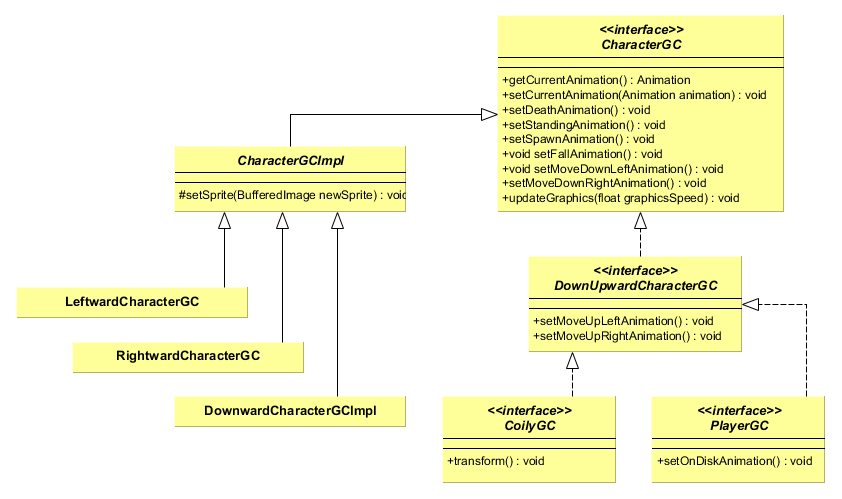
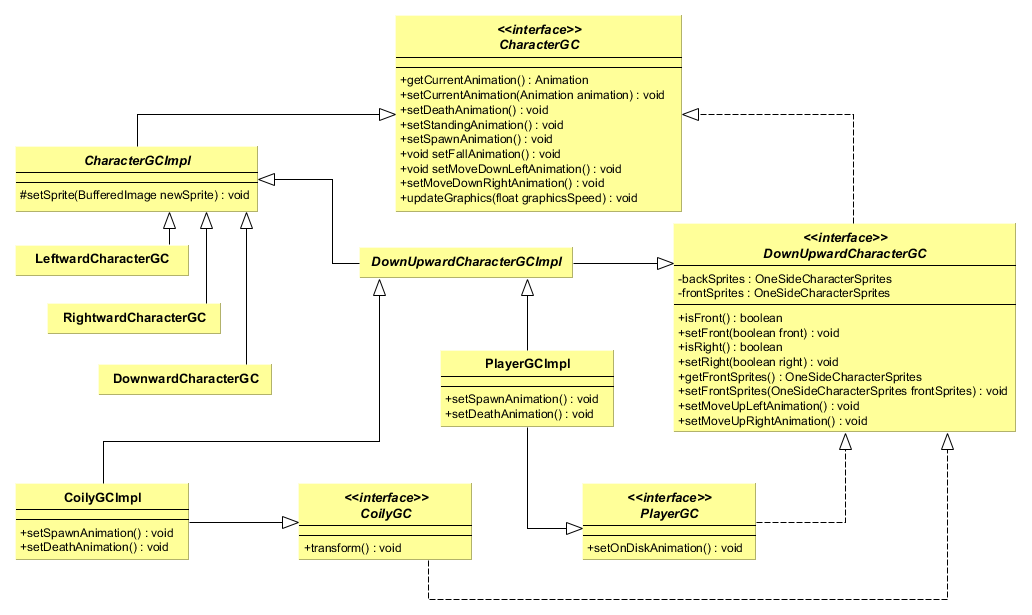
Create test folder. Correct some old jUnit tests. Write report

diff --git a/report/Relazione.tex b/report/Relazione.tex
@@ -94,28 +94,37 @@ Il dialogo fra Controller e View è più stabile in quanto è la View stessa ad 
 \item\subsubsection{Alessandro Lombardi - Logica dei personaggi}
 \end{flushright}
 
-I personaggi svolgono diverse azioni e fanno diverse scelte durante il loro ciclo di vita. Per evitare una gestione troppo cablata e poco mantenibile delle specifiche situazioni è stato scelto di utilizzare lo \textbf{State Pattern}. Il pattern State evita l'utilizzo di monolitici  blocchi condizionali all'interno delle classi dei singoli personaggi per la scelta e l’esecuzione di una azione piuttosto che un’altra, frammentando lo svolgimento delle singole azioni a classi specifiche che sono riutilizzabili e facilmente intercambiabili tra loro. Inoltre, permette di gestire meglio l'esecuzione delle animazioni e la simulazione delle attese che un personagio fa fra un'azione e l'altra.
+I personaggi svolgono diverse azioni e fanno diverse scelte durante il loro ciclo di vita. Per evitare una gestione troppo cablata e poco mantenibile delle specifiche situazioni è stato scelto di utilizzare lo \textbf{State Pattern}. Il pattern State evita l'utilizzo di monolitici  blocchi condizionali all'interno delle classi dei singoli personaggi per la scelta e l’esecuzione di una azione piuttosto che un’altra, frammentando lo svolgimento delle singole azioni a classi specifiche che sono riutilizzabili e facilmente intercambiabili tra loro. Inoltre, permette di gestire meglio l'esecuzione delle animazioni e la simulazione delle attese che un personaggio fa fra un'azione e l'altra. Nella pratica ogni personaggio viene aggiornato col passare del tempo tramite il metodo update(float dt), ma questo delega completamente i propri compiti allo stato attuale.
 
-Nel caso specifico  è stato scelto di associare a ciascun personaggio uno stato di riposo, reperibile tramite il metodo getStandingState() presente della interfaccia \emph{Character}, caratteristico per ciascuno e paragonabile a uno stato di attesa di una macchina a stati finiti. La classe astratta \emph{CharacterStateImpl} è una semplice implementazione dell'interfaccia \emph{CharacterState} e usata direttamente dagli stati molto semplici o di transazione (\emph{LandState} oppure \emph{QbertStandingState}). Le classi astratte \emph{WaitAnimationState} e \emph{WaitTimerState} invece, usano il metodo update() come \textbf{Template Method} per permettere alle classi concrete la personalizzazione nel metodo conclude() delle azioni da svolgere, rispettivamente alla fine di una animazione o allo scadere di un timer.
+Nel caso specifico  è stato scelto di associare a ciascun personaggio uno stato di riposo, reperibile tramite il metodo getStandingState() presente della interfaccia \emph{Character}, caratteristico per ciascuno e paragonabile a uno stato di attesa di una macchina a stati finiti responsabile delle maggiori scelte logiche del personaggio, come la strategia di movimento. La classe astratta \emph{CharacterStateImpl} è una semplice implementazione dell'interfaccia \emph{CharacterState} e viene ereditata direttamente dagli stati molto semplici o di transizione, come rispettivamente \emph{QbertStandingState} e \emph{LandState}. Le classi astratte \emph{WaitAnimationState} e \emph{WaitTimerState} invece, usano il metodo update() come \textbf{Template Method} per permettere alle classi concrete la personalizzazione nel metodo conclude() delle azioni da svolgere, rispettivamente alla fine di una animazione o allo scadere di un timer. \emph{MoveState} contiene gli stati usati da tutti i personaggi per eseguire i basilari movimenti nelle due o quattro direzioni a seconda del tipo di \emph{Character} che viene passato. 
 
 \begin{figure}[H]
 \centering{}
 \includegraphics[width=\linewidth]{img/CharacterStates}
-\caption{Alcune delle principali classi della gerarchia di Character State}
-\label{img:GerarchiaCGC}
+\caption{Alcune delle principali classi della gerarchia dei Character State}
+\label{img:CharacterStates}
 \end{figure}
 
+E' importante sottolineare che gli stati vengono inizializzati passando il \emph{Character} associato, permettendo allo stato di applicarvi le modifiche necessarie, quindi i costruttori degli stati sono modellati per accettare anche le classi più specifiche della gerarchia dei personaggi, limitando e proteggendo gli stati che devono essere usati solo per certi personaggi. Ad esempio, \emph{QbertOnDiskState} accetta solo \emph{Player}, mentre \emph{FallState} può accettare un \emph{Character} oppure un \emph{DownUpwardCharacter} personalizzando le azioni da compiere di caso in caso.
+
+
+\begin{figure}[H]
+\centering{}
+\includegraphics[width=\linewidth]{img/GerarchiaCharacters}
+\caption{La gerarchia dei Character}
+\label{img:GerarchiaCharacters}
+\end{figure}
 
 \begin{flushright}
 \item\subsubsection{Alessandro Lombardi - Animazione dei personaggi}
 \end{flushright}
 
-Durante la fase di analisi è stato scelto di dividere quella che era la posizione "logica" del personaggio, ovvero la posizione nella griglia immaginaria disegnata dalle facce dei cubi del terreno di gioco, da quella "fisica", ovvero la coordinata del pixel nella finestra di gioco, dove si posiziona l'angolo in alto a sinistra dell'immagine di forma rettangolare del personaggio. Questo ha comportato anche una divisione degli aspetti grafici da quelli logici e la scelta di considerare i movimenti come il salto, la caduta etc.. vere e proprie animazioni. La gestione dei dati necessari alla renderizzazione grafica dei personaggi, quali la posizione, lo sprite e la dimensione di questo, sono gestiti dalle classi che implementano \emph{CharacterGC}. La gerarchia di classi concrete ed astratte che segue è modellata sulle animazioni svolte dai vari personaggi con lo scopo di riutilizzare al massimo le funzionalità in comune.
+Durante la fase di analisi è stato scelto di dividere quella che era la posizione "logica" del personaggio, ovvero la posizione nella griglia immaginaria disegnata dalle facce dei cubi del terreno di gioco, da quella "fisica", ovvero la coordinata del pixel nella finestra di gioco, dove si posiziona l'angolo in alto a sinistra dell'immagine di forma rettangolare del personaggio. Questo ha comportato anche una divisione degli aspetti grafici da quelli logici e la scelta di considerare i movimenti come il salto, la caduta etc.. vere e proprie animazioni. La gestione dei dati necessari alla renderizzazione grafica dei personaggi, quali la posizione, lo sprite e la dimensione di questo, sono gestiti dalle classi che implementano \emph{CharacterGC}. La gerarchia dei Character Graphic Component si basa sul riutilizzo del codice in comune e sulle animazioni supportate, \emph{CharacterGC} fornisce i metodi per la gestione delle animazioni e presenta quelle base. Le interfacce e le classi per la gestione della grafica di Coily e Qbert supportano animazioni per muoversi anche verso l'alto oltre che gestire gli sprite per il fronte e il dietro dei personaggi. Da notare come Coily sfrutti il metodo setFrontSprites(OneSideCharacterSprites frontSprites) per trasformarsi dalla palla viola che è inizialmente alla sua forma finale.
 
 \begin{figure}[H]
 \centering{}
 \includegraphics[width=\linewidth]{img/GerarchiaCGC}
-\caption{Le principali classi della gerarchia CharcaterGC}
+\caption{La gerarchia CharcaterGC}
 \label{img:GerarchiaCGC}
 \end{figure}
 
@@ -124,7 +133,7 @@ Le animazioni dei personaggi sono state sviluppate sfruttando il pattern \textbf
 \begin{figure}[H]
 \centering{}
 \includegraphics[width=\linewidth]{img/AnimazioniPersonaggi}
-\caption{Alcune animazioni dei personaggi}
+\caption{Alcune animazioni dei characters}
 \label{img:AnimazioniPersonaggi}
 \end{figure}
 

diff --git a/src/test/TestCharacterGraphicComponent.java b/src/test/TestCharacterGraphicComponent.java
@@ -1,4 +1,4 @@
-package qbert.model.components.graphics;
+package test;
 
 import org.junit.Test;
 import static org.junit.Assert.assertTrue;
@@ -6,9 +6,12 @@ import static org.junit.Assert.assertEquals;
 
 import qbert.controller.LoadResources;
 import qbert.controller.Sprites;
+import qbert.model.components.graphics.CharacterGC;
+import qbert.model.components.graphics.CoilyGCImpl;
+import qbert.model.components.graphics.DownUpwardCharacterGC;
+import qbert.model.components.graphics.DownwardCharacterGC;
 import qbert.model.utilities.Dimensions;
 import qbert.model.utilities.Position2D;
-import qbert.view.characters.DisplaceAnimation;
 import qbert.view.characters.ComposedAnimation;
 import qbert.view.characters.StraightMovementAnimation;
 
@@ -20,8 +23,6 @@ import java.util.Random;
 public class TestCharacterGraphicComponent {
 
     private static final float SPEED = 7;
-
-    private static final int SPRITEHEIGHT = 5;
 
     private final Random rnd;
     private static final int TEST = 20;
@@ -94,17 +95,18 @@ public class TestCharacterGraphicComponent {
     }
 
     /**
-     * A test method for {@link DownwardCharacterGCImpl}.
+     * A test method for {@link DownwardCharacterGC}.
      */
     @Test
     public void testDownwardCGC() {
-        final CharacterGC cgc = new DownwardCharacterGCImpl(Sprites.getInstance().getGreenBallSprites(), new Position2D(spawningPointLeft));
+        final CharacterGC cgc = new DownwardCharacterGC(Sprites.getInstance().getGreenBallSprites(), new Position2D(spawningPointLeft));
         assertEquals(cgc.getPosition(), this.spawningPointLeft);
+        final Position2D landPos = new Position2D(cgc.getSpawnPosition().getX(), (Dimensions.getWindowHeight() - Dimensions.getBackgroundHeight()) / 2 + Dimensions.getCubeHeight() - cgc.getSpriteHeight());
         cgc.setSpawnAnimation();
+        assertTrue(cgc.getSprite().equals(Sprites.getInstance().getGreenBallSprites().getMoveSprite()));
         assertTrue(cgc.getCurrentAnimation() instanceof StraightMovementAnimation);
         this.finishAnimation(cgc);
-        assertEquals(cgc.getPosition(), new Position2D(this.spawningPointLeft.getX(), 
-                (Dimensions.getWindowHeight() - Dimensions.getBackgroundHeight()) / 2 + Dimensions.getCubeHeight() - TestCharacterGraphicComponent.SPRITEHEIGHT));
+        assertEquals(cgc.getPosition(), landPos);
 
         for (int i = 0; i < TestCharacterGraphicComponent.TEST; i++) {
             if (this.rnd.nextFloat() >= 0.5) {
@@ -122,13 +124,12 @@ public class TestCharacterGraphicComponent {
     public void testDownwardUpwardGC() {
         final Sprites s = Sprites.getInstance();
         final DownUpwardCharacterGC cgc = new CoilyGCImpl(s.getPurpleBallSprites(), s.getCoilyFrontSprites(), s.getCoilyBackSprites(), new Position2D(this.spawningPointRight));
-        final Position2D spawnPos = new Position2D(rnd.nextInt(10), rnd.nextInt(10));
+        final Position2D landPos = new Position2D(cgc.getSpawnPosition().getX(), (Dimensions.getWindowHeight() - Dimensions.getBackgroundHeight()) / 2 + Dimensions.getCubeHeight() - cgc.getSpriteHeight());
         assertEquals(cgc.getPosition(), this.spawningPointRight);
-        cgc.setSpawnPosition(spawnPos);
         cgc.setSpawnAnimation();
-        assertTrue(cgc.getCurrentAnimation() instanceof DisplaceAnimation);
+        assertTrue(cgc.getCurrentAnimation() instanceof StraightMovementAnimation);
         this.finishAnimation(cgc);
-        assertEquals(cgc.getPosition(), spawnPos);
+        assertEquals(cgc.getPosition(), landPos);
 
         for (int i = 0; i < TestCharacterGraphicComponent.TEST; i++) {
             switch (this.rnd.nextInt(4)) {

diff --git a/src/qbert/model/spawner/EnemyFactoryImpl.java b/src/qbert/model/spawner/EnemyFactoryImpl.java
@@ -22,7 +22,7 @@ import qbert.model.utilities.Position2D;
 import qbert.model.components.graphics.CharacterGC;
 import qbert.model.components.graphics.CoilyGC;
 import qbert.model.components.graphics.CoilyGCImpl;
-import qbert.model.components.graphics.DownwardCharacterGCImpl;
+import qbert.model.components.graphics.DownwardCharacterGC;
 import qbert.model.components.graphics.LeftwardCharacterGC;
 import qbert.model.components.graphics.PlayerGC;
 import qbert.model.components.graphics.PlayerGCImpl;
@@ -94,7 +94,7 @@ public class EnemyFactoryImpl implements EnemyFactory {
         final OneSideCharacterSprites sprites = Sprites.getInstance().getRedBallSprites();
         final Position2D randomPos = this.getRandomPos(sprites.getMoveSprite().getHeight());
         final Position2D logicalPos = this.getLogicalPos(randomPos);
-        final CharacterGC graphics = new DownwardCharacterGCImpl(sprites, randomPos);
+        final CharacterGC graphics = new DownwardCharacterGC(sprites, randomPos);
 
         return new RedBall(logicalPos, speed, graphics, standingTime);
     }
@@ -104,7 +104,7 @@ public class EnemyFactoryImpl implements EnemyFactory {
         final OneSideCharacterSprites sprites = Sprites.getInstance().getGreenBallSprites();
         final Position2D randomPos = this.getRandomPos(sprites.getMoveSprite().getHeight());
         final Position2D logicalPos = this.getLogicalPos(randomPos);
-        final CharacterGC graphics = new DownwardCharacterGCImpl(Sprites.getInstance().getGreenBallSprites(), randomPos);
+        final CharacterGC graphics = new DownwardCharacterGC(Sprites.getInstance().getGreenBallSprites(), randomPos);
 
         return new GreenBall(logicalPos, speed, graphics, standingTime);
     }
@@ -118,8 +118,8 @@ public class EnemyFactoryImpl implements EnemyFactory {
         final Position2D logicalPos = this.getLogicalPos(randomPos);
 
         final CharacterGC graphics = randomPos == this.spawningLogPointLeft
-                ? new DownwardCharacterGCImpl(slickS, randomPos)
-                : new DownwardCharacterGCImpl(samS, randomPos);
+                ? new DownwardCharacterGC(slickS, randomPos)
+                : new DownwardCharacterGC(samS, randomPos);
 
         return new SamAndSlick(logicalPos, speed, graphics, standingTime);
     }

diff --git a/src/qbert/model/components/graphics/DownwardCharacterGC.java b/src/qbert/model/components/graphics/DownwardCharacterGC.java
@@ -11,7 +11,7 @@ import qbert.view.characters.StandingAnimation;
  * GC stands graphic component, this implementation is used to manage characters whose movements are unidirectional and 
  * downward, doesn't support upward animations.
  */
-public class DownwardCharacterGCImpl extends CharacterGCImpl {
+public class DownwardCharacterGC extends CharacterGCImpl {
 
     private final OneSideCharacterSprites sprites;
 
@@ -29,7 +29,7 @@ public class DownwardCharacterGCImpl extends CharacterGCImpl {
      * @param sprites the {@link Character} sprites container
      * @param startSpritePos the first position (physic) of the {@link Character}
      */
-    public DownwardCharacterGCImpl(final OneSideCharacterSprites sprites, final Position2D startSpritePos) {
+    public DownwardCharacterGC(final OneSideCharacterSprites sprites, final Position2D startSpritePos) {
         super(sprites.getStandSprite(), startSpritePos);
         this.sprites = sprites;
         this.landPos = new Position2D(this.getSpawnPosition().getX(), (Dimensions.getWindowHeight() - Dimensions.getBackgroundHeight()) / 2 + Dimensions.getCubeHeight() - this.getSpriteHeight()); 

diff --git a/src/qbert/model/characters/states/RightwardCharStandingState.java b/src/qbert/model/characters/states/RightwardCharStandingState.java
@@ -1,6 +1,6 @@
 package qbert.model.characters.states;
 
-import qbert.model.characters.Character;
+import qbert.model.characters.RightwardCharacter;
 import qbert.model.utilities.Dimensions;
 import qbert.model.utilities.Position2D;
 
@@ -10,10 +10,10 @@ import qbert.model.utilities.Position2D;
 public class RightwardCharStandingState extends WaitTimerState {
 
     /**
-     * @param character the {@link Character} linked to this state
+     * @param character the {@link RightwardCharacter} linked to this state
      * @param triggerTime the timer duration
      */
-    public RightwardCharStandingState(final Character character, final int triggerTime) {
+    public RightwardCharStandingState(final RightwardCharacter character, final int triggerTime) {
         super(character, triggerTime);
         this.getCharacter().setCurrentPosition(new Position2D(this.getCharacter().getNextPosition()));
         this.getCharacter().getGraphicComponent().setStandingAnimation();

diff --git a/src/qbert/model/characters/states/LeftwardCharStandingState.java b/src/qbert/model/characters/states/LeftwardCharStandingState.java
@@ -1,6 +1,6 @@
 package qbert.model.characters.states;
 
-import qbert.model.characters.Character;
+import qbert.model.characters.LeftwardCharacter;
 import qbert.model.utilities.Dimensions;
 import qbert.model.utilities.Position2D;
 
@@ -10,10 +10,10 @@ import qbert.model.utilities.Position2D;
 public class LeftwardCharStandingState extends WaitTimerState {
 
     /**
-     * @param character the {@link Character} linked to this state
+     * @param character the {@link LeftwardCharacter} linked to this state
      * @param triggerTime the timer duration
      */
-    public LeftwardCharStandingState(final Character character, final int triggerTime) {
+    public LeftwardCharStandingState(final LeftwardCharacter character, final int triggerTime) {
         super(character, triggerTime);
         this.getCharacter().setCurrentPosition(new Position2D(this.getCharacter().getNextPosition()));
         this.getCharacter().getGraphicComponent().setStandingAnimation();

diff --git a/src/qbert/view/characters/ArcClockwiseAnimation.java b/src/qbert/view/characters/ArcClockwiseAnimation.java
@@ -43,7 +43,7 @@ public class ArcClockwiseAnimation extends MovementAnimation {
     }
 
     @Override
-    public final void calculateNext() {
+    protected final void calculateNext() {
         this.currentAngle += this.getAnimationSpeed();
 
         //Check if the angle limit has been reached
@@ -52,7 +52,7 @@ public class ArcClockwiseAnimation extends MovementAnimation {
             this.setCurrentPosition(this.getTargetPosition());
         } else {
             // Calculate position using the goniometric circumference
-            this.setCurrentPosition(MovementAnimation.calculateCircumferenceCoords(this.centerPos, this.currentAngle, this.radius));
+            this.setCurrentPosition(this.calculateCircumferenceCoords(this.centerPos, this.currentAngle, this.radius));
         }
     }
 }

diff --git a/src/qbert/view/characters/ArcCounterclockwiseAnimation.java b/src/qbert/view/characters/ArcCounterclockwiseAnimation.java
@@ -43,13 +43,13 @@ public class ArcCounterclockwiseAnimation extends MovementAnimation {
     }
 
     @Override
-    public final void calculateNext() {
+    protected final void calculateNext() {
         this.currentAngle -= this.getAnimationSpeed();
         if (this.currentAngle < this.targetAngle) {
             this.currentAngle = this.targetAngle;
             this.setCurrentPosition(this.getTargetPosition());
         } else {
-            this.setCurrentPosition(MovementAnimation.calculateCircumferenceCoords(this.centerPos, this.currentAngle, this.radius));
+            this.setCurrentPosition(this.calculateCircumferenceCoords(this.centerPos, this.currentAngle, this.radius));
         }
     }
 }

diff --git a/src/qbert/model/models/Introduction.java b/src/qbert/model/models/Introduction.java
@@ -137,7 +137,6 @@ public class Introduction implements Model {
                     new Position2D(qbert.getCurrentPosition().getX() + qbert.getStep(), qbert.getCurrentPosition().getY() - qbert.getStep()));
 
             this.qbert.setCurrentState(new MoveState.DownRight(this.qbert));
-            this.qbert.getPlayerSoundComponent().setHopSound();
         }
     }
 
@@ -146,6 +145,7 @@ public class Introduction implements Model {
         this.qbert.update(elapsed);
 
         if (this.qbert.getCurrentState() instanceof LandState) {
+            this.qbert.getPlayerSoundComponent().setHopSound();
             this.qbert.setCurrentState(this.qbert.getStandingState());
         }
 

diff --git a/src/qbert/view/characters/MovementAnimation.java b/src/qbert/view/characters/MovementAnimation.java
@@ -74,7 +74,7 @@ public abstract class MovementAnimation implements Animation {
      * @param radius the circumference radius
      * @return the {@link Position2D} after the rotation
      */
-    public static Position2D calculateCircumferenceCoords(final Position2D centerPos, final int angle, final double radius) {
+    protected Position2D calculateCircumferenceCoords(final Position2D centerPos, final int angle, final double radius) {
         return new Position2D(Math.round((float) (centerPos.getX() + Math.cos(Math.toRadians(angle)) * radius)),
                 Math.round((float) (centerPos.getY() + Math.sin(Math.toRadians(angle)) * radius)));
     }

diff --git a/src/test/TestSimpleAnimation.java b/src/test/TestSimpleAnimation.java
@@ -1,4 +1,4 @@
-package qbert.view.characters;
+package test;
 
 import org.junit.Test;
 import static org.junit.Assert.assertTrue;
@@ -8,6 +8,12 @@ import java.util.ArrayList;
 import java.util.List;
 import java.util.Random;
 import qbert.model.utilities.Position2D;
+import qbert.view.characters.Animation;
+import qbert.view.characters.ArcClockwiseAnimation;
+import qbert.view.characters.ArcCounterclockwiseAnimation;
+import qbert.view.characters.DisplaceAnimation;
+import qbert.view.characters.StandingAnimation;
+import qbert.view.characters.StraightMovementAnimation;
 
 /**
  * A JUnit class to test basic animations.

diff --git a/src/qbert/view/characters/ComposedAnimation.java b/src/qbert/view/characters/ComposedAnimation.java
@@ -29,7 +29,7 @@ public class ComposedAnimation extends MovementAnimation {
     }
 
     @Override
-    public final void calculateNext() {
+    protected final void calculateNext() {
         if (!this.animations.isEmpty()) {
             if (this.animations.peek().hasFinished()) {
                 this.animations.remove();
@@ -44,7 +44,7 @@ public class ComposedAnimation extends MovementAnimation {
     /**
      * @return the queue of animations to perform
      */
-    public final Queue<Animation> getAnimations() {
+    protected final Queue<Animation> getAnimations() {
         return animations;
     }
 
